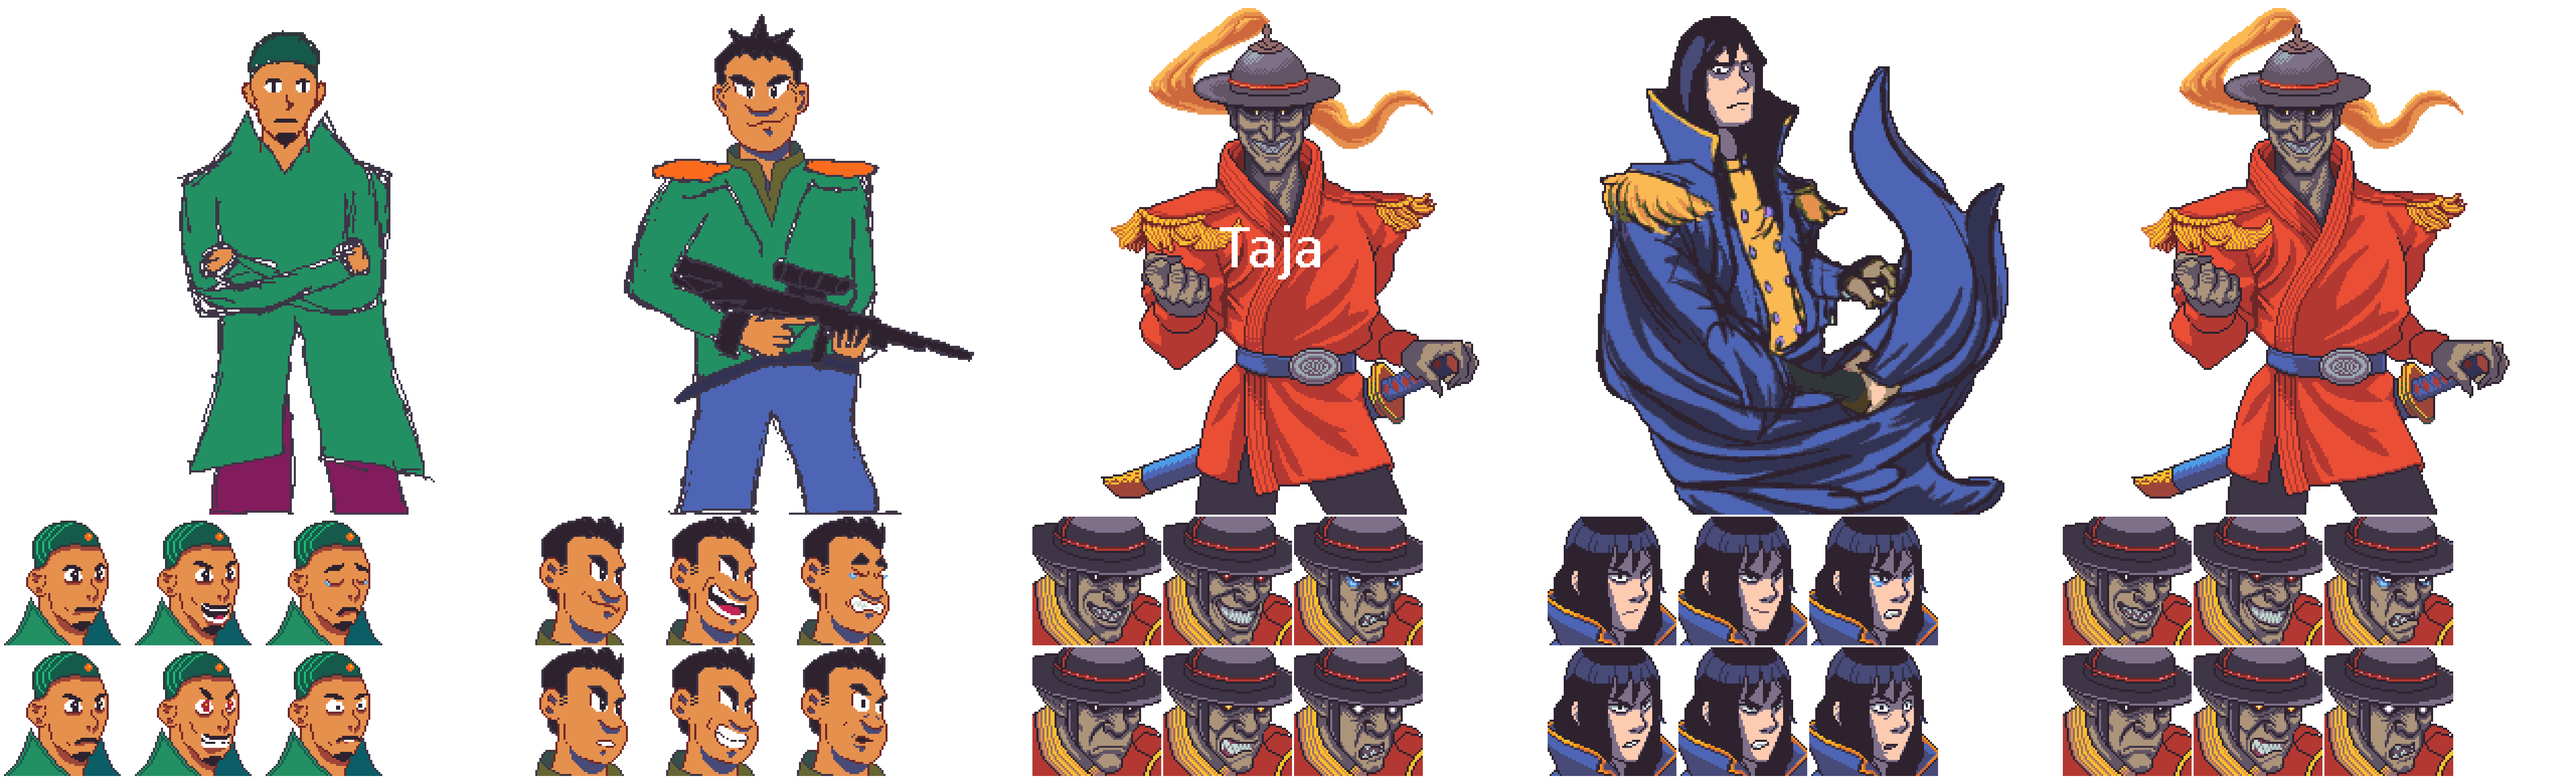
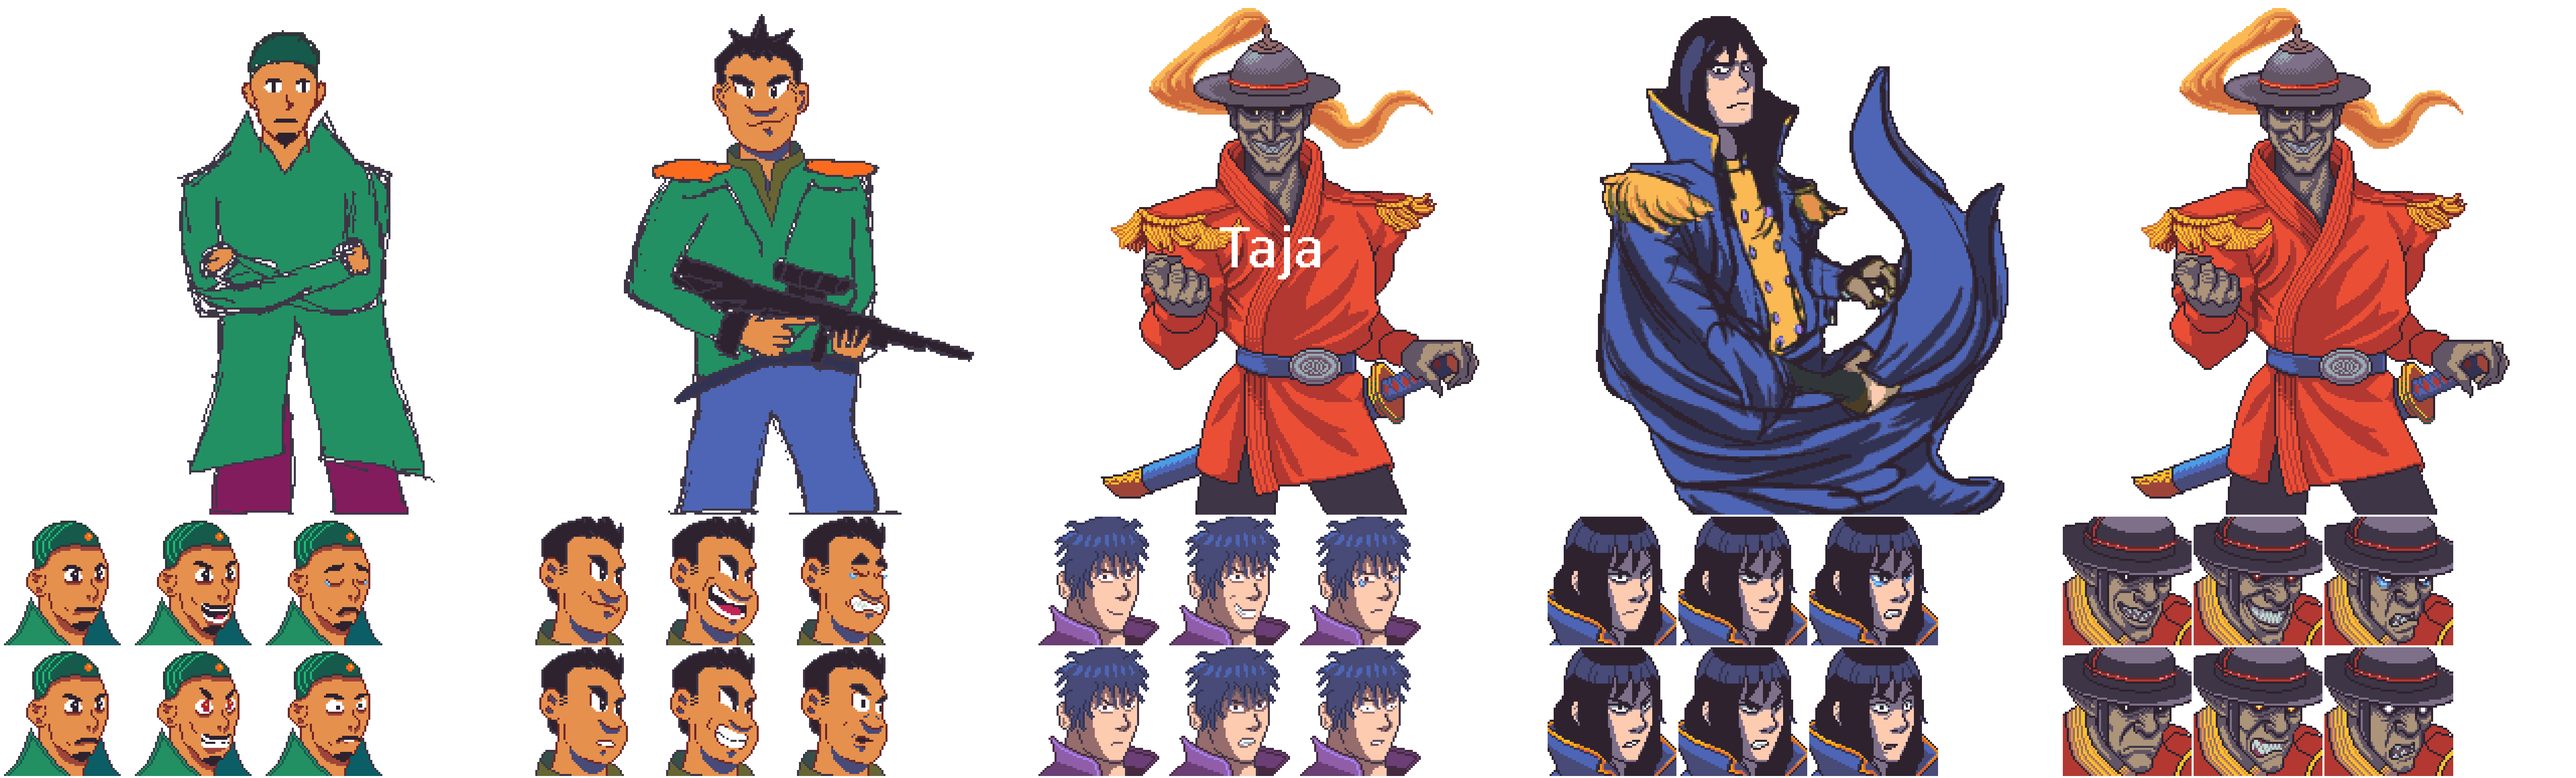
Added Taja Faces. Fixed a typo in power dialogue.

Changed region(s): [[0.375, 0.6512, 0.5625, 1.0]]

diff --git a/js/dialogues/power.js b/js/dialogues/power.js
@@ -49,7 +49,7 @@ const powerDialogues = [
     },
     {
         speaker: TAJA,
-        text: "I'm going to destory you with overwhelming force!",
+        text: "I'm going to destroy you with overwhelming force!",
         face: FACE_HAPPY
     },
     {
